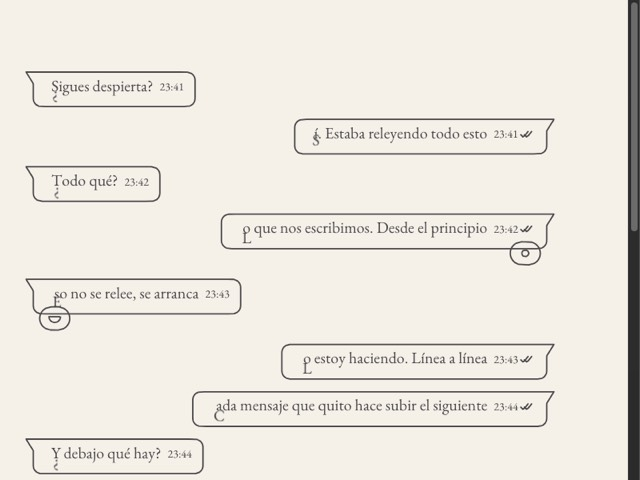
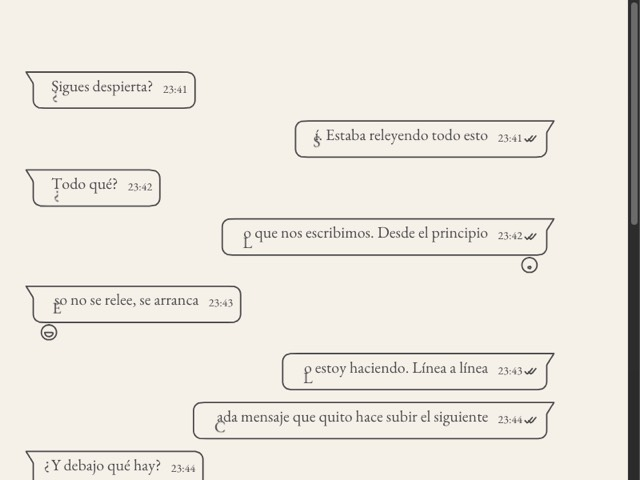
Chat: simpler reactions, time/ticks/reaction placed like a chat app, 4 on screen
- Reactions drop the pill: small one/two-stroke icons (heart, star,
  and faces as a circle + mouth: smile, laugh, wow, sad) just under the
  bubble's bottom edge, under the ticks on outgoing messages and at the
  left corner on incoming ones. 'pray' maps to 'star'.
- The time hugs the bubble's bottom-right corner, a little below the
  text baseline, with the ticks right after it.
- The Chat scene shows at most 4 messages at once.

diff --git a/js/chat.js b/js/chat.js
@@ -7,7 +7,7 @@
 // time is appended as smaller letters in the same ink. Everything else is a
 // peelable line (lineart stroke) in that same ink: the bubble is ONE stroke —
 // outline and tail in a single closed line — then the ticks, and each reaction:
-// a one-stroke pill and a one-stroke icon.
+// a small icon in one or two strokes, just under the bubble.
 //
 // layout.js lays a chat block out inside its bubble (padding, tail, right
 // alignment for outgoing) and returns the bubble box as the block's attachment
@@ -17,7 +17,7 @@
 
 export const CHAT_SIDES = ['in', 'out'];
 export const CHAT_TICKS = ['none', 'sent', 'delivered', 'read'];
-export const CHAT_REACTIONS = ['heart', 'laugh', 'wow', 'sad', 'smile', 'pray'];
+export const CHAT_REACTIONS = ['heart', 'laugh', 'wow', 'sad', 'smile', 'star'];
 export const CHAT_THEME = { lineColor: '', lineWidth: 1.8 };
 
 // ink defaults to the scene's text colour, so bubbles look like the rest of the page
@@ -32,7 +32,7 @@ export function normalizeChat(raw) {
   if (!raw) return null;
   const r = typeof raw === 'object' ? raw : {};
   const reactions = (Array.isArray(r.reactions) ? r.reactions : String(r.reactions || '').split(/[\s,]+/))
-    .map(s => String(s).trim()).filter(s => CHAT_REACTIONS.includes(s)).slice(0, 4);
+    .map(s => String(s).trim()).map(s => (s === 'pray' ? 'star' : s)).filter(s => CHAT_REACTIONS.includes(s)).slice(0, 4);
   return {
     side: r.side === 'out' ? 'out' : 'in',
     time: String(r.time ?? '').trim().slice(0, 12),
@@ -92,21 +92,16 @@ export function buildChatStrokes(geom, theme) {
     add(check(0), 2.5);
     if (geom.tickKind !== 'sent') add(check(4.5), 2.5);
   }
-  // reactions: a one-stroke pill, and one stroke per icon
+  // reactions: small icons in a row just under the bubble, one or two strokes each
   for (const rc of geom.reactions || []) {
-    const h = rc.h, rr = h / 2;
-    add(roundRect(rc.x, rc.y, rc.w, h, rr), 4);
-    rc.kinds.forEach((kind, i) => add(reactionIcon(kind, rc.x + h * 0.65 + i * (h * 0.82), rc.y + h / 2, h * 0.5), 2));
+    rc.kinds.forEach((kind, i) => {
+      for (const pts of reactionIcon(kind, rc.x + rc.h / 2 + i * rc.h * 1.3, rc.y + rc.h / 2, rc.h / 2)) add(pts, 2);
+    });
   }
   return out;
 }
 
 function arc(cx, cy, r, a0, a1, n = 8) { const p = []; for (let i = 0; i <= n; i++) { const a = a0 + (a1 - a0) * i / n; p.push([cx + Math.cos(a) * r, cy + Math.sin(a) * r]); } return p; }
-function roundRect(x, y, w, h, r) {
-  r = Math.min(r, w / 2, h / 2);
-  return [[x + r, y], [x + w - r, y], ...arc(x + w - r, y + r, r, -Math.PI / 2, 0), [x + w, y + h - r], ...arc(x + w - r, y + h - r, r, 0, Math.PI / 2),
-    [x + r, y + h], ...arc(x + r, y + h - r, r, Math.PI / 2, Math.PI), [x, y + r], ...arc(x + r, y + r, r, Math.PI, Math.PI * 1.5)];
-}
 // the bubble outline with its tail, as a single path starting and ending at the tail's tip
 function bubblePath(W, H, r, side, t) {
   const right = [[W - r, 0], ...arc(W - r, r, r, -Math.PI / 2, 0), [W, H - r], ...arc(W - r, H - r, r, 0, Math.PI / 2), [r, H], ...arc(r, H - r, r, Math.PI / 2, Math.PI)];
@@ -115,13 +110,21 @@ function bubblePath(W, H, r, side, t) {
   else pts = [[r, 0], ...right, [0, r], ...arc(r, r, r, Math.PI, Math.PI * 1.5)];
   return side === 'out' ? pts.map(([x, y]) => [W - x, y]) : pts; // outgoing: mirrored, tail at the top-right
 }
-// one simple line per reaction, centred on (cx, cy), size s
-function reactionIcon(kind, cx, cy, s) {
-  if (kind === 'heart') { const p = []; for (let i = 0; i <= 32; i++) { const t = Math.PI * 2 * i / 32; p.push([cx + 16 * Math.sin(t) ** 3 * s / 34, cy - (13 * Math.cos(t) - 5 * Math.cos(2 * t) - 2 * Math.cos(3 * t) - Math.cos(4 * t)) * s / 34 + s * 0.06]); } return p; }
-  if (kind === 'smile') return arc(cx, cy - s * 0.25, s * 0.5, 0.35, Math.PI - 0.35, 10);           // ‿
-  if (kind === 'sad') return arc(cx, cy + s * 0.55, s * 0.5, Math.PI + 0.45, Math.PI * 2 - 0.45, 10); // ⌒
-  if (kind === 'wow') return arc(cx, cy, s * 0.3, 0, Math.PI * 2, 12);                              // o
-  if (kind === 'laugh') return [...arc(cx, cy - s * 0.15, s * 0.5, Math.PI, 0, 10), [cx - s * 0.5, cy - s * 0.15]]; // a wide open mouth: half circle closed by a line
-  if (kind === 'pray') return [[cx - s * 0.4, cy + s * 0.45], [cx, cy - s * 0.5], [cx + s * 0.4, cy + s * 0.45]]; // ^ two hands together
-  return [[cx - s * 0.3, cy], [cx + s * 0.3, cy]];
+// each reaction: one or two simple strokes inside a circle of radius r around (cx, cy)
+function reactionIcon(kind, cx, cy, r) {
+  if (kind === 'heart') {
+    const p = []; for (let i = 0; i <= 36; i++) { const t = Math.PI * 2 * i / 36; p.push([cx + 16 * Math.sin(t) ** 3 * r / 17, cy - (13 * Math.cos(t) - 5 * Math.cos(2 * t) - 2 * Math.cos(3 * t) - Math.cos(4 * t)) * r / 17 - r * 0.08]); }
+    return [p];
+  }
+  if (kind === 'star') {
+    const p = []; for (let i = 0; i <= 10; i++) { const a = -Math.PI / 2 + i * Math.PI / 5, rad = i % 2 ? r * 0.42 : r; p.push([cx + Math.cos(a) * rad, cy + Math.sin(a) * rad + r * 0.08]); }
+    return [p];
+  }
+  const face = arc(cx, cy, r, -Math.PI / 2, Math.PI * 1.5, 22);
+  let mouth;
+  if (kind === 'laugh') mouth = [...arc(cx, cy + r * 0.02, r * 0.55, Math.PI, 0, 10), [cx - r * 0.55, cy + r * 0.02]]; // D
+  else if (kind === 'wow') mouth = arc(cx, cy + r * 0.32, r * 0.2, 0, Math.PI * 2, 10);                                  // o
+  else if (kind === 'sad') mouth = arc(cx, cy + r * 0.85, r * 0.5, Math.PI + 0.65, Math.PI * 2 - 0.65, 8);              // ⌒
+  else mouth = arc(cx, cy - r * 0.05, r * 0.55, 0.55, Math.PI - 0.55, 8);                                                // ‿
+  return [face, mouth];
 }

diff --git a/js/layout.js b/js/layout.js
@@ -460,9 +460,9 @@ function layoutChatBubble(block, chat, rawPositions, lineIndices, o) {
   const originX = state.MARGIN * sc + block.transform.x;
   let last = rawPositions.length - 1;
   while (last > 0 && (block.graphemes[last] === ' ' || block.graphemes[last] === '\n')) last--;
-  const tickW = chat.side === 'out' && chat.ticks !== 'none' ? 19 : 0;
+  const tickW = chat.side === 'out' && chat.ticks !== 'none' ? 17 : 0;
   const lastRight = last >= 0 ? (rawPositions[last].x + rawPositions[last].w - originX) / sc : 0;
-  const innerW = Math.max(o.maxLineW, lastRight + (tickW ? tickW + 3 : 0), o.lineHeight);
+  const innerW = Math.max(o.maxLineW, lastRight + (tickW ? tickW + 4 : 0), o.lineHeight);
   const bubbleW = innerW + 2 * o.chatPadX;
   const bubbleX = chat.side === 'out' ? originX + (o.blockWidth - o.chatTail - bubbleW) * sc : originX + o.chatTail * sc;
   const bubbleY = o.startY + block.transform.y;
@@ -470,21 +470,30 @@ function layoutChatBubble(block, chat, rawPositions, lineIndices, o) {
   const basePx = (state.baseFontPx || 20) * sc;
   rawPositions.forEach((p, i) => {
     p.x += dx; p.y += dy;
-    const size = block.inlineStyles?.[i]?.size; // the small time sits on the baseline, not the top of the line
-    if (size && size < basePx) p.y += (basePx - size) * 0.78;
+    const size = block.inlineStyles?.[i]?.size; // the small time sits a little below the text's baseline
+    if (size && size < basePx) p.y += (basePx - size) * 0.78 + basePx * 0.12;
   });
-  const Hb = (o.textUnits + 2 * o.chatPadY) * sc, W = bubbleW * sc;
+  const Hb = (o.textUnits + 2 * o.chatPadY) * sc + basePx * 0.1, W = bubbleW * sc;
+  // the time (and the ticks after it) hug the bubble's bottom-right corner, like a chat app
+  const timeIdx = []; for (let i = 0; i < rawPositions.length; i++) if (block.inlineStyles?.[i]?.size) timeIdx.push(i);
+  if (timeIdx.length) {
+    const timeRight = Math.max(...timeIdx.map(i => rawPositions[i].x + rawPositions[i].w));
+    const target = bubbleX + W - o.chatPadX * sc * 0.7 - (tickW ? (tickW + 4) * sc : 0);
+    const shift = target - timeRight;
+    if (shift > 0) timeIdx.forEach(i => { rawPositions[i].x += shift; });
+  }
   let total = Hb + 2;
   const reactions = [];
   if (chat.reactions.length) {
-    const h = Math.round(o.lineHeight * 0.95 * sc), w = h * 1.3 + (chat.reactions.length - 1) * h * 0.82;
-    const x = chat.side === 'out' ? W - w - 8 * sc : 8 * sc;
-    reactions.push({ x, y: Hb - h * 0.3, w, h, kinds: chat.reactions });
-    total = Hb + h * 0.7 + 4;
+    // just under the bottom edge: below the ticks on outgoing messages, at the left corner on incoming ones
+    const h = Math.round(o.lineHeight * 0.62 * sc), w = h + (chat.reactions.length - 1) * h * 1.3;
+    const x = chat.side === 'out' ? W - w - o.chatPadX * sc * 0.7 - 2 * sc : o.chatPadX * sc * 0.7;
+    reactions.push({ x, y: Hb + 3 * sc, w, h, kinds: chat.reactions });
+    total = Hb + 3 * sc + h + 3;
   }
   const lp = last >= 0 ? rawPositions[last] : null;
   const tsz = lp && block.inlineStyles?.[last]?.size ? block.inlineStyles[last].size : basePx;
-  const ticks = tickW && lp ? { x: lp.x + lp.w - bubbleX + 4, y: lp.y - bubbleY + tsz * 0.5 - 4 } : null;
+  const ticks = tickW && lp ? { x: lp.x + lp.w - bubbleX + 4 * sc, y: lp.y - bubbleY + tsz * 0.62 - 4.5 } : null;
   const geom = { side: chat.side, W, Hb, total, tail: chat.tail, tailW: o.chatTail * sc, ticks, tickKind: chat.ticks, reactions, color: chat.color };
   return {
     positions: rawPositions,

diff --git a/tirita.html b/tirita.html
@@ -866,7 +866,7 @@
                 <button type="button" class="chat-react-pick" data-react="wow" title="wow" aria-pressed="false">😮</button>
                 <button type="button" class="chat-react-pick" data-react="sad" title="sad" aria-pressed="false">😢</button>
                 <button type="button" class="chat-react-pick" data-react="smile" title="smile" aria-pressed="false">🙂</button>
-                <button type="button" class="chat-react-pick" data-react="pray" title="pray" aria-pressed="false">🙏</button>
+                <button type="button" class="chat-react-pick" data-react="star" title="star" aria-pressed="false">☆</button>
             </div>
           </div>
           <div class="editor-actions">
@@ -1439,6 +1439,6 @@
     });
   })();
   </script>
-  <script type="module" src="./js/main.js?v=171"></script>
+  <script type="module" src="./js/main.js?v=173"></script>
 </body>
 </html>

diff --git a/js/scenes.js b/js/scenes.js
@@ -2011,7 +2011,7 @@ export function buildExampleScenes(defaultPieceConfig) {
         layout: { ...structuredClone(defaultPieceConfig.layout), blockGap: 14, topMargin: 90, bottomMargin: 120 },
         behaviors: {
           fadeReveal: { enabled: false, visibleLetters: 24, fadeSteps: 8 },
-          stepParagraphs: { enabled: true, visibleCount: 6, compactFlow: true, advanceDelayMs: 250 }
+          stepParagraphs: { enabled: true, visibleCount: 4, compactFlow: true, advanceDelayMs: 250 }
         },
         blocks: [
             {
@@ -2272,7 +2272,7 @@ export function buildExampleScenes(defaultPieceConfig) {
                 "side": "in",
                 "time": "23:47",
                 "reactions": [
-                  "pray"
+                  "star"
                 ]
               }
             },
